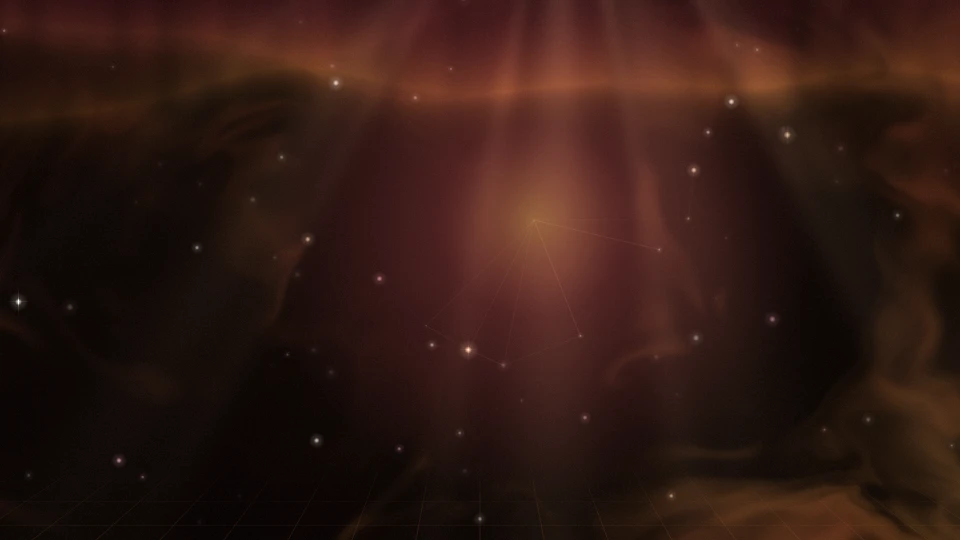
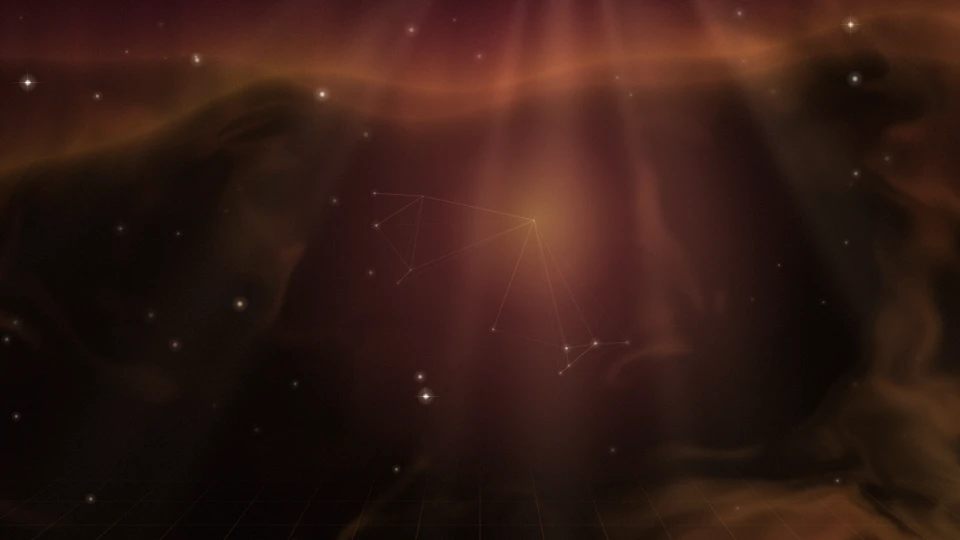
A present aurora in the light theme, and one for every preset
In the light theme the aurora was a faint veil, and the light-first
presets turned it off. Now the curtains show in full on a bright sky:
the veil, the curtains themselves in their colors (streaks and edge),
and a glow that lifts them off the colors behind. Light palettes get
vivid aurora colors.

Every preset shapes its own with the new settings: two wide curtains
for abyss and lagoon, a fine neon band for synthwave, a slanted curtain
for sunset, four waving ones for blossom, a soft dawn veil for daybreak,
a quiet one for graphite and porcelain. README images regenerated.

diff --git a/src/presets.ts b/src/presets.ts
@@ -22,7 +22,7 @@ export const presets: Record<PresetName, DeepSkyPreset> = {
       light: {
         background: '#f6f7fd',
         nebula: ['#a78bfa', '#60a5fa', '#2dd4bf', '#f472b6'],
-        aurora: ['#9ff2d6', '#c9b6ff'],
+        aurora: ['#2dd4bf', '#a78bfa'],
         rays: '#ffffff',
         glow: '#b7a8ff',
         stars: ['#ffffff', '#ffffff', '#e0dcff'],
@@ -32,6 +32,7 @@ export const presets: Record<PresetName, DeepSkyPreset> = {
         grid: 'rgba(70, 100, 200, 0.12)',
       },
     },
+    aurora: { height: 1.2 },
   },
 
   ember: {
@@ -51,7 +52,7 @@ export const presets: Record<PresetName, DeepSkyPreset> = {
       light: {
         background: '#fff8f2',
         nebula: ['#fb923c', '#f87171', '#fbbf24', '#f472b6'],
-        aurora: ['#ffcf9e', '#ffb0c8'],
+        aurora: ['#fbbf24', '#f472b6'],
         rays: '#fff3dc',
         glow: '#ffb27a',
         stars: ['#ffffff', '#ffffff', '#ffe7d1'],
@@ -62,7 +63,7 @@ export const presets: Record<PresetName, DeepSkyPreset> = {
       },
     },
     nebula: { intensity: 1.05, shimmer: 0.08 },
-    aurora: { intensity: 0.55, position: 0.78 },
+    aurora: { intensity: 0.65, position: 0.78, curtains: 2, height: 1.4, waves: 1.3, tilt: 0.2, streaks: 0.6 },
     rays: { intensity: 1.35 },
     meteors: { frequency: 0.8 },
   },
@@ -84,7 +85,7 @@ export const presets: Record<PresetName, DeepSkyPreset> = {
       light: {
         background: '#f1f8fc',
         nebula: ['#38bdf8', '#3b82f6', '#2dd4bf', '#34d399'],
-        aurora: ['#a5f3e4', '#a8c8ff'],
+        aurora: ['#2dd4bf', '#60a5fa'],
         rays: '#ffffff',
         glow: '#7dd3fc',
         stars: ['#ffffff', '#ffffff', '#d9f3ff'],
@@ -95,7 +96,7 @@ export const presets: Record<PresetName, DeepSkyPreset> = {
       },
     },
     nebula: { intensity: 0.9, scale: 0.85 },
-    aurora: { intensity: 0.4, position: 0.82 },
+    aurora: { intensity: 0.5, position: 0.82, curtains: 2, height: 2, waves: 0.6, streaks: 0.3, speed: 0.7 },
     rays: { intensity: 1.9, spread: 0.8 },
     // particles rise like bubbles
     stars: { speed: 1.6, flares: false },
@@ -120,7 +121,7 @@ export const presets: Record<PresetName, DeepSkyPreset> = {
       light: {
         background: '#fdf4fb',
         nebula: ['#c084fc', '#818cf8', '#f472b6', '#e879f9'],
-        aurora: ['#ffb3dd', '#c9b2ff'],
+        aurora: ['#f472b6', '#818cf8'],
         rays: '#ffffff',
         glow: '#f0a6ff',
         stars: ['#ffffff', '#ffffff', '#fbe0ff'],
@@ -131,7 +132,7 @@ export const presets: Record<PresetName, DeepSkyPreset> = {
       },
     },
     nebula: { intensity: 0.9, shimmer: 0.12 },
-    aurora: { intensity: 0.45 },
+    aurora: { intensity: 0.6, position: 0.62, curtains: 1, height: 0.8, waves: 0.3, streaks: 0.2, edge: 2.2 },
     rays: { intensity: 0.75 },
     meteors: { frequency: 1.3 },
     grid: { size: 56, speed: 1.7, height: 0.58, tilt: 72, opacity: 1 },
@@ -154,7 +155,7 @@ export const presets: Record<PresetName, DeepSkyPreset> = {
       light: {
         background: '#f7f7f8',
         nebula: ['#f3f3f7', '#eeeff4', '#fafafc', '#e9eaf0'],
-        aurora: ['#e4e4ea', '#d4d4dc'],
+        aurora: ['#9aa0b8', '#d0d2de'],
         rays: '#ffffff',
         glow: '#d4d4dc',
         stars: ['#3f3f46', '#52525b', '#71717a'],
@@ -166,7 +167,7 @@ export const presets: Record<PresetName, DeepSkyPreset> = {
     },
     nebula: { intensity: 1.1, shimmer: 0 },
     daylight: { contrast: 0.5, sheen: 0.3, bokeh: 0.4 },
-    aurora: { intensity: 0.35 },
+    aurora: { intensity: 0.8, curtains: 2, streaks: 0.5, speed: 0.6 },
     rays: { intensity: 0.8 },
     meteors: { frequency: 0.6 },
     grid: false,
@@ -193,7 +194,7 @@ export const presets: Record<PresetName, DeepSkyPreset> = {
       light: {
         background: '#fdf8f3',
         nebula: ['#a78bfa', '#f472b6', '#fbbf24', '#fb923c'],
-        aurora: ['#ffd9b5', '#e7c9ff'],
+        aurora: ['#fde68a', '#f9a8d4'],
         rays: '#fff4d6',
         glow: '#ffbfa0',
         stars: ['#ffffff', '#ffffff', '#fff0d6'],
@@ -204,7 +205,7 @@ export const presets: Record<PresetName, DeepSkyPreset> = {
       },
     },
     nebula: { intensity: 1, scale: 0.85, shimmer: 0.06 },
-    aurora: false,
+    aurora: { intensity: 1, position: 0.76, curtains: 2, height: 1.6, waves: 0.8, streaks: 0.5, edge: 0.6 },
     rays: { intensity: 1.3, spread: 0.85 },
     stars: { density: 0.7 },
     meteors: { frequency: 0.6 },
@@ -230,7 +231,7 @@ export const presets: Record<PresetName, DeepSkyPreset> = {
       light: {
         background: '#3d5cff',
         nebula: ['#ff4a2a', '#ffa020', '#7b3cff', '#ff6a3d'],
-        aurora: ['#ffb36b', '#a78bfa'],
+        aurora: ['#fde047', '#c084fc'],
         rays: '#ffffff',
         glow: '#ffd0a8',
         stars: ['#ffffff', '#ffffff', '#ffe2c4'],
@@ -242,7 +243,7 @@ export const presets: Record<PresetName, DeepSkyPreset> = {
     },
     nebula: { intensity: 1, scale: 0.8, shimmer: 0 },
     daylight: { contrast: 1.1, sheen: 0.5, bokeh: 0.25, split: 1 },
-    aurora: false,
+    aurora: { intensity: 0.9, position: 0.72, curtains: 3, height: 1.3, tilt: 0.3, streaks: 0.7 },
     rays: { intensity: 0.5 },
     stars: { density: 0.5 },
     meteors: { frequency: 0.6 },
@@ -268,7 +269,7 @@ export const presets: Record<PresetName, DeepSkyPreset> = {
       light: {
         background: '#fff6f8',
         nebula: ['#f472b6', '#fb7185', '#f9a8d4', '#c084fc'],
-        aurora: ['#ffd0de', '#e7cdf7'],
+        aurora: ['#ffffff', '#f9a8d4'],
         rays: '#ffffff',
         glow: '#ffa6c4',
         stars: ['#ffffff', '#ffffff', '#ffe3ec'],
@@ -280,7 +281,7 @@ export const presets: Record<PresetName, DeepSkyPreset> = {
     },
     nebula: { intensity: 1, scale: 1.1, shimmer: 0.05 },
     daylight: { bokeh: 1.25, sheen: 1.2 },
-    aurora: false,
+    aurora: { intensity: 0.9, position: 0.74, curtains: 4, height: 1.4, waves: 1.4, streaks: 0.7, speed: 0.7 },
     rays: { intensity: 0.8 },
     stars: { density: 0.8, size: 1.2, speed: 0.6 },
     meteors: { frequency: 0.5 },
@@ -306,7 +307,7 @@ export const presets: Record<PresetName, DeepSkyPreset> = {
       light: {
         background: '#effaf9',
         nebula: ['#818cf8', '#38bdf8', '#5eead4', '#2dd4bf'],
-        aurora: ['#b4f0e6', '#b8d6ff'],
+        aurora: ['#ffffff', '#67e8f9'],
         rays: '#ffffff',
         glow: '#6edbd0',
         stars: ['#ffffff', '#ffffff', '#dcfbf6'],
@@ -318,7 +319,7 @@ export const presets: Record<PresetName, DeepSkyPreset> = {
     },
     nebula: { intensity: 1, scale: 0.9, shimmer: 0 },
     daylight: { bokeh: 1.4 },
-    aurora: false,
+    aurora: { intensity: 1, position: 0.8, curtains: 2, height: 2.2, waves: 0.5, streaks: 0.3, speed: 0.8 },
     rays: { intensity: 1.7, spread: 0.9 },
     // particles rise like bubbles
     stars: { speed: 1.4, flares: false, density: 0.8 },
@@ -345,7 +346,7 @@ export const presets: Record<PresetName, DeepSkyPreset> = {
       light: {
         background: '#fafaf8',
         nebula: ['#f6f3ee', '#f0f1f4', '#fbfaf7', '#eceef2'],
-        aurora: ['#ece9e4', '#e3e6ec'],
+        aurora: ['#bfb2a0', '#e0d9cd'],
         rays: '#ffffff',
         glow: '#e2ded7',
         stars: ['#57534e', '#71717a', '#a8a29e'],
@@ -357,7 +358,7 @@ export const presets: Record<PresetName, DeepSkyPreset> = {
     },
     nebula: { intensity: 1.1, scale: 0.8, shimmer: 0 },
     daylight: { contrast: 0.5, sheen: 0.3, bokeh: 0.4 },
-    aurora: false,
+    aurora: { intensity: 0.9, position: 0.75, curtains: 1, height: 1.8, waves: 0.6, streaks: 0.2, edge: 0.5 },
     rays: { intensity: 0.7 },
     stars: { density: 0.5, twinkle: 0.6 },
     meteors: { frequency: 0.4 },

diff --git a/src/engine/shader.ts b/src/engine/shader.ts
@@ -202,7 +202,14 @@ void main() {
     // the folds: a slow field of its own where the colors gather and deepen
     fold = smoothstep(0.45, 1.0, 0.5 + 0.5 * sin(w.x * 0.9 - w.y * 1.4 + t * 0.035 + 2.3)) * k;
   }
-  light = mix(light, aurCol / max(aur, 1e-3), clamp(aurSoft * 0.24 * uMix.y, 0.0, 0.6));
+  // the aurora on a bright sky: a soft veil, the curtains themselves (streaks, edge and all) in
+  // their colors, and a glow that lifts them off the colors behind
+  if (uMix.y > 0.0) {
+    vec3 ac = aurCol / max(aur, 1e-3);
+    light = mix(light, ac, clamp(aurSoft * 0.2 * uMix.y, 0.0, 0.5));
+    light = mix(light, ac, clamp(aur * 0.62 * uMix.y, 0.0, 0.88));
+    light += ac * clamp(aur, 0.0, 1.5) * 0.14 * uMix.y;
+  }
 
   // contrast: a color multiplied by itself is the same hue, richer and deeper. In the folds and
   // towards the edges (a colored vignette, never gray), plus a touch more saturation everywhere

diff --git a/test/options.test.ts b/test/options.test.ts
@@ -17,13 +17,13 @@ describe('normalizeOptions', () => {
     expect(r.preset).toBe('abyss');
     expect(r.aurora).toEqual({
       enabled: true,
-      intensity: 0.4,
+      intensity: 0.5,
       position: 0.5,
-      height: 1,
-      speed: 1,
-      waves: 1,
-      curtains: 3,
-      streaks: 1,
+      height: 2,
+      speed: 0.7,
+      waves: 0.6,
+      curtains: 2,
+      streaks: 0.3,
       tilt: 0,
       edge: 1,
     });

diff --git a/CHANGELOG.md b/CHANGELOG.md
@@ -5,7 +5,7 @@
 - **A new light theme.** A slow gradient mesh of the palette's colors, vivid and smooth, over bright paper, with the nebula as a faint marbling, instead of faint gray tints. Beams, the roaming light, shockwaves and sweeps add light, stars are white sparkles, the aurora is a soft veil, and the grain is halved. Every preset has new light colors.
 - **`daylight`**, the light theme's finish: `contrast` (colors deepen in the folds and towards the edges, a colored vignette, never gray), `sheen` (a pearly, iridescent band sweeping slowly across) `bokeh` (soft discs of light with a bright rim, drifting up) and `split` (hot and cold sides: the colors keep to one side of a slowly turning diagonal, the background holds the other, the third color lights the seam). Also `<deep-sky daylight="1.5">` and a Daylight section in the playground. Skipped entirely while the sky is dark.
 - **Light-first presets**: `sunset` (hot red and orange against electric blue, meeting through violet), `daybreak` (remade: peach, rose and lilac), `blossom` (cherry blossom pinks), `lagoon` (turquoise water and sunlight) and `porcelain` (warm whites and grays for product UIs). Each has a dark palette too.
-- **Aurora shapes**: `height`, `curtains` (1 to 5), `waves`, `speed`, `streaks`, `tilt` and `edge`, with sliders in the playground. The defaults draw the same aurora as before.
+- **Aurora shapes**: `height`, `curtains` (1 to 5), `waves`, `speed`, `streaks`, `tilt` and `edge`, with sliders in the playground. The defaults draw the same aurora as before. Every preset now has an aurora of its own (a fine neon band for synthwave, a slanted curtain for sunset, wide veils of light for lagoon...), and in the light theme the curtains show in full, with their streaks, edge and a glow, in vivid colors.
 - The `aurora` preset is gone (the aurora layer stays): asking for it gives `cosmos`.
 - The package is published as `deep-sky-background` on npm.
 
